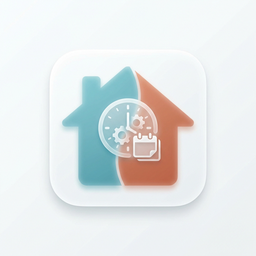
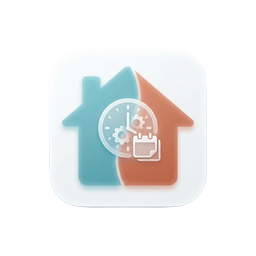
chore: final brand assets with transparency from user

Changed region(s): [[0.1562, 0.3125, 0.8438, 0.875]]

diff --git a/scripts/smart_crop.py b/scripts/smart_crop.py
@@ -1,0 +1,61 @@
+from PIL import Image, ImageChops
+import os
+
+def smart_process(file_path, output_name, is_icon=False):
+    if not os.path.exists(file_path):
+        print(f"File {file_path} not found")
+        return
+    
+    img = Image.open(file_path).convert("RGBA")
+    
+    # 1. Find bounding box of content (not white)
+    # Background is white (255, 255, 255, 255)
+    bg = Image.new("RGBA", img.size, (255, 255, 255, 255))
+    diff = ImageChops.difference(img, bg)
+    bbox = diff.getbbox()
+    
+    if not bbox:
+        print(f"No content found in {file_path}")
+        return
+
+    # Crop to content
+    cropped = img.crop(bbox)
+    
+    # Convert white background to transparent
+    # We use a threshold to handle slight compression artifacts
+    def remove_white(img):
+        img = img.convert("RGBA")
+        data = img.getdata()
+        new_data = []
+        for item in data:
+            # If the pixel is pure white (255, 255, 255)
+            if item[0] == 255 and item[1] == 255 and item[2] == 255:
+                # We turn it transparent
+                new_data.append((255, 255, 255, 0))
+            else:
+                new_data.append(item)
+        img.putdata(new_data)
+        return img
+
+    # Apply transparency to the cropped image
+    cropped = remove_white(cropped)
+
+    # 2. Icon must be 1:1, Logo should be landscape
+    if is_icon:
+        size = max(cropped.width, cropped.height)
+        final_canvas = Image.new("RGBA", (size, size), (0, 0, 0, 0))
+        offset_x = (size - cropped.width) // 2
+        offset_y = (size - cropped.height) // 2
+        final_canvas.paste(cropped, (offset_x, offset_y))
+    else:
+        # Logo: we keep the cropped aspect ratio (landscape)
+        final_canvas = cropped
+
+    final_canvas.save(output_name, "PNG")
+    print(f"Saved optimized {output_name}")
+
+brand_dir = "brand"
+# Icon standard
+smart_process(os.path.join(brand_dir, "icon@2x.png"), "brand/icon_test.png", is_icon=True)
+# Logo standard
+smart_process(os.path.join(brand_dir, "logo@2x.png"), "brand/logo_test.png", is_icon=False)
